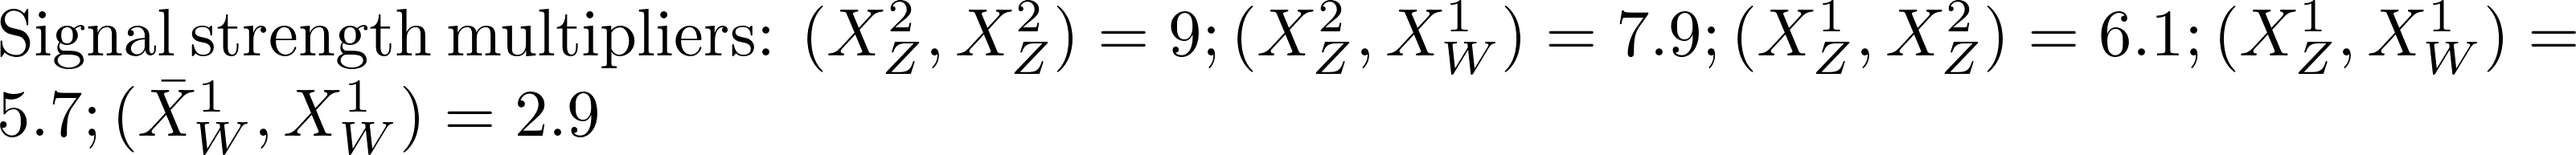
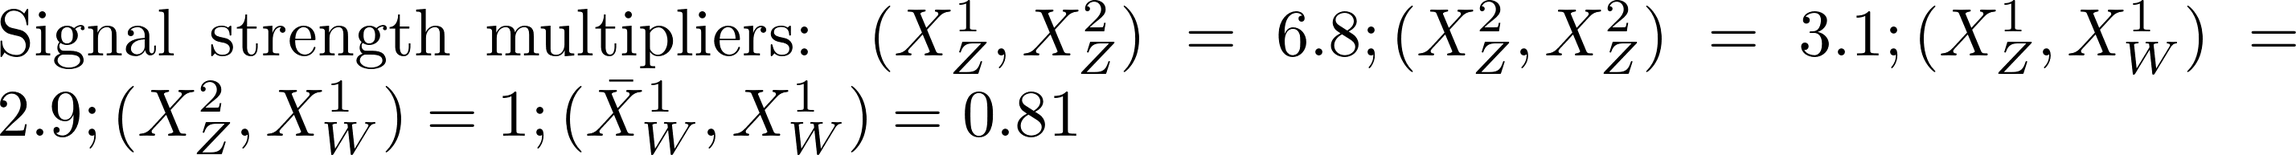
automated update by plotHiscore.py to ewk7_310:     K=9.143 TL=12.39 walkerid=0

diff --git a/protomodels/ewk7_310/rawnumbers.html b/protomodels/ewk7_310/rawnumbers.html
@@ -1,13 +1,18 @@
 <table>
 <tr><th>Analysis Name</th><th>Type</th><th>Dataset</th><th>Topos</th><th>Observed</th><th>Expected</th><th>Approx &sigma;</th><th>Particles</th>
 </tr>
-<tr><td><a href=https://atlas.web.cern.ch/Atlas/GROUPS/PHYSICS/PAPERS/EXOT-2018-06/>ATLAS-EXOT-2018-06</a></td><td>em</td> <td>EM10</td><td>TChiISR, TChiWISRll, TChiWWISRqq, TChiZISRll, TChiZISRqq</td><td>413</td><td>359.00 +/- 10.00</td><td style="text-align:right">2.5 &sigma;</td><td style="text-align:right">X<sup>1</sup><sub>W</sub>, X<sup>1</sup><sub>Z</sub>, X<sup>2</sup><sub>Z</sub></td></tr>
-<tr><td><a href=http://cms-results.web.cern.ch/cms-results/public-results/publications/EXO-20-004/>CMS-EXO-20-004</a></td><td>comb</td> <td>-</td><td>TChiISR, TChiWISRll, TChiWWISRqq, TChiZISRll, TChiZISRqq</td><td> 5e+01 fb </td><td> 4e+01 fb</td><td style="text-align:right">2.0 &sigma;</td><td style="text-align:right">X<sup>1</sup><sub>W</sub>, X<sup>1</sup><sub>Z</sub>, X<sup>2</sup><sub>Z</sub></td></tr>
-<tr><td><a href=https://atlas.web.cern.ch/Atlas/GROUPS/PHYSICS/PAPERS/SUSY-2016-07/>ATLAS-SUSY-2016-07</a></td><td>em</td> <td>2j_Meff_2100</td><td>T1</td><td>190</td><td>153.00 +/- 14.00</td><td style="text-align:right">1.9 &sigma;</td><td style="text-align:right">X<sup>1</sup><sub>W</sub>, X<sup>1</sup><sub>Z</sub>, X<sup>2</sup><sub>Z</sub></td></tr>
-<tr><td><a href=https://twiki.cern.ch/twiki/bin/view/CMSPublic/PhysicsResultsSUS13012>CMS-SUS-13-012</a></td><td>em</td> <td>3NJet6_1000HT12 ...</td><td>T1bbbb</td><td>32</td><td>22.80 +/- 5.20</td><td style="text-align:right">1.3 &sigma;</td><td style="text-align:right">X<sup>1</sup><sub>Z</sub>, X<sup>2</sup><sub>Z</sub></td></tr>
-<tr><td><a href=https://atlas.web.cern.ch/Atlas/GROUPS/PHYSICS/PAPERS/SUSY-2013-04/>ATLAS-SUSY-2013-04</a></td><td>em</td> <td>GtGrid_SR_10ij5 ...</td><td>T1bbbb</td><td>3</td><td>1.37 +/- 0.35</td><td style="text-align:right">1.2 &sigma;</td><td style="text-align:right">X<sup>1</sup><sub>Z</sub>, X<sup>2</sup><sub>Z</sub></td></tr>
-<tr><td><a href=http://cms-results.web.cern.ch/cms-results/public-results/publications/SUS-16-039/index.html>CMS-SUS-16-039-agg</a></td><td>comb</td> <td>-</td><td>TChiWZoff</td><td> 2 fb </td><td> 1 fb</td><td style="text-align:right">-1.7 &sigma;</td><td style="text-align:right">X<sup>1</sup><sub>W</sub>, X<sup>1</sup><sub>Z</sub>, X<sup>2</sup><sub>Z</sub></td></tr>
-<tr><td><a href=http://cms-results.web.cern.ch/cms-results/public-results/publications/SUS-16-048/index.html>CMS-SUS-16-048</a></td><td>comb</td> <td>-</td><td>TChiWZoff</td><td> 0.7 fb </td><td> 0.9 fb</td><td style="text-align:right">-1.9 &sigma;</td><td style="text-align:right">X<sup>1</sup><sub>W</sub>, X<sup>1</sup><sub>Z</sub>, X<sup>2</sup><sub>Z</sub></td></tr>
+<tr><td><a href=https://atlas.web.cern.ch/Atlas/GROUPS/PHYSICS/PAPERS/EXOT-2018-06/>ATLAS-EXOT-2018-06</a></td><td>em</td> <td>EM10</td><td>TChiISR</td><td>413</td><td>359.00 +/- 10.00</td><td style="text-align:right">2.4 &sigma;</td><td style="text-align:right">X<sup>1</sup><sub>Z</sub>, X<sup>2</sup><sub>Z</sub></td></tr>
+<tr><td><a href=http://cms-results.web.cern.ch/cms-results/public-results/publications/EXO-20-004/>CMS-EXO-20-004</a></td><td>comb</td> <td>-</td><td>TChiISR</td><td> 7e+01 fb </td><td> 6e+01 fb</td><td style="text-align:right">2.2 &sigma;</td><td style="text-align:right">X<sup>1</sup><sub>Z</sub>, X<sup>2</sup><sub>Z</sub></td></tr>
+<tr><td><a href=https://atlas.web.cern.ch/Atlas/GROUPS/PHYSICS/PAPERS/SUSY-2013-04/>ATLAS-SUSY-2013-04</a></td><td>em</td> <td>GtGrid_SR_9ej50 ...</td><td>T1bbbb</td><td>5</td><td>3.30 +/- 0.70</td><td style="text-align:right">0.9 &sigma;</td><td style="text-align:right">X<sup>1</sup><sub>Z</sub>, X<sup>2</sup><sub>Z</sub></td></tr>
+<tr><td><a href=https://twiki.cern.ch/twiki/bin/view/CMSPublic/PhysicsResultsSUS13012>CMS-SUS-13-012</a></td><td>em</td> <td>6NJet8_800HT100 ...</td><td>T1bbbb</td><td>35</td><td>28.60 +/- 6.90</td><td style="text-align:right">0.8 &sigma;</td><td style="text-align:right">X<sup>1</sup><sub>Z</sub>, X<sup>2</sup><sub>Z</sub></td></tr>
+<tr><td><a href=https://atlas.web.cern.ch/Atlas/GROUPS/PHYSICS/PAPERS/SUSY-2013-02/>ATLAS-SUSY-2013-02</a></td><td>em</td> <td>SR6jl</td><td>T1</td><td>121</td><td>111.00 +/- 11.00</td><td style="text-align:right">0.7 &sigma;</td><td style="text-align:right">X<sup>1</sup><sub>W</sub>, X<sup>1</sup><sub>Z</sub>, X<sup>2</sup><sub>Z</sub></td></tr>
+<tr><td><a href=https://atlas.web.cern.ch/Atlas/GROUPS/PHYSICS/PAPERS/SUSY-2016-07/>ATLAS-SUSY-2016-07</a></td><td>em</td> <td>6j_Meff_1200</td><td>T1</td><td>276</td><td>274.00 +/- 32.00</td><td style="text-align:right">0.1 &sigma;</td><td style="text-align:right">X<sup>1</sup><sub>W</sub>, X<sup>1</sup><sub>Z</sub>, X<sup>2</sup><sub>Z</sub></td></tr>
 </table>
 <table style='color:grey'>
-<tr><th>Not in Best Combo</th><th>Type</th><th>Dataset</th><th>Topos</th><th>Observed</th><th>Expected</th><th>Approx &sigma;</th><th>Particles</th></table>
+<tr><th>Not in Best Combo</th><th>Type</th><th>Dataset</th><th>Topos</th><th>Observed</th><th>Expected</th><th>Approx &sigma;</th><th>Particles</th><tr><td><a href=http://cms-results.web.cern.ch/cms-results/public-results/publications/SUS-16-033/index.html>CMS-SUS-16-033</a></td><td>em</td> <td>SR6_Njet2_Nb2_H ...</td><td>T1bbbb</td><td>216</td><td>196.00 +/- 28.00</td><td style="text-align:right">0.7 &sigma;</td><td style="text-align:right">X<sup>1</sup><sub>Z</sub>, X<sup>2</sup><sub>Z</sub></td></tr>
+<tr><td><a href=http://cms-results.web.cern.ch/cms-results/public-results/publications/SUS-16-033/index.html>CMS-SUS-16-033</a></td><td>em</td> <td>SR1_Njet2_Nb0_H ...</td><td>T1</td><td>7838</td><td>7584.00 +/- 433.00</td><td style="text-align:right">0.6 &sigma;</td><td style="text-align:right">X<sup>1</sup><sub>W</sub>, X<sup>1</sup><sub>Z</sub>, X<sup>2</sup><sub>Z</sub></td></tr>
+<tr><td><a href=http://cms-results.web.cern.ch/cms-results/public-results/publications/SUS-16-033/index.html>CMS-SUS-16-033</a></td><td>em</td> <td>SR12_Njet5_Nb1_ ...</td><td>T1bbbb</td><td>48</td><td>42.20 +/- 9.70</td><td style="text-align:right">0.5 &sigma;</td><td style="text-align:right">X<sup>1</sup><sub>Z</sub>, X<sup>2</sup><sub>Z</sub></td></tr>
+<tr><td><a href=http://cms-results.web.cern.ch/cms-results/public-results/publications/SUS-16-033/index.html>CMS-SUS-16-033</a></td><td>em</td> <td>SR7_Njet3_Nb1_H ...</td><td>T1bbbb</td><td>123</td><td>113.00 +/- 18.00</td><td style="text-align:right">0.5 &sigma;</td><td style="text-align:right">X<sup>1</sup><sub>Z</sub>, X<sup>2</sup><sub>Z</sub></td></tr>
+<tr><td><a href=http://cms-results.web.cern.ch/cms-results/public-results/publications/SUS-16-033/index.html>CMS-SUS-16-033</a></td><td>em</td> <td>SR3_Njet5_Nb0_H ...</td><td>T1</td><td>819</td><td>806.00 +/- 57.00</td><td style="text-align:right">0.2 &sigma;</td><td style="text-align:right">X<sup>1</sup><sub>W</sub>, X<sup>1</sup><sub>Z</sub>, X<sup>2</sup><sub>Z</sub></td></tr>
+<tr><td><a href=http://cms-results.web.cern.ch/cms-results/public-results/publications/SUS-16-033/index.html>CMS-SUS-16-033</a></td><td>em</td> <td>SR11_Njet7_Nb1_ ...</td><td>T1, T1bbbb</td><td>890</td><td>969.00 +/- 80.00</td><td style="text-align:right">-0.9 &sigma;</td><td style="text-align:right">X<sup>1</sup><sub>W</sub>, X<sup>1</sup><sub>Z</sub>, X<sup>2</sup><sub>Z</sub></td></tr>
+</table>

diff --git a/protomodels/ewk7_310/index.html b/protomodels/ewk7_310/index.html
@@ -1,24 +1,24 @@
 <html>
 <body>
 <center>
-<table><td><h1>Current best protomodel: <i>K</i>=3.90, <i>TL</i>=7.15</h1><td><img height=60px src=https://smodels.github.io//protomodels/logos/protomodel_lego.png></table>
+<table><td><h1>Current best protomodel: <i>K</i>=9.14, <i>TL</i>=12.39</h1><td><img height=60px src=https://smodels.github.io//protomodels/logos/protomodel_lego.png></table>
 </center>
-<b><a href=./hiscore.slha>ProtoModel</a> <a href=./pmodel.dict>(dict)</a> produced with <a href=https://smodels.github.io//docs/Validation310>database v3.1.0</a>, combination strategy <a href=./matrix.png>aggressive</a> in walker 0 step 12.</b> <br>
+<b><a href=./hiscore.slha>ProtoModel</a> <a href=./pmodel.dict>(dict)</a> produced with <a href=https://smodels.github.io//docs/Validation310>database v3.1.0</a>, combination strategy <a href=./matrix.png>aggressive</a> in walker 0 step 160.</b> <br>
 <table width=80%>
 <tr><td>
 <br><b>Critics:</b> passed both critics<br>
-<br><b>LLHD Critic:</b> CMS-SUS-16-048:combined, ATLAS-EXOT-2018-06:EM9, CMS-EXO-20-004:combined, ATLAS-SUSY-2016-07:2j_Meff_2100:: <span style='color: darkgreen;'>robs=0.95</span><br>
+<br><b>LLHD Critic:</b> CMS-EXO-20-004:combined, ATLAS-EXOT-2018-06:EM9:: <span style='color: darkgreen;'>robs=0.94</span><br>
 <br><b>7 predictions available. Highest r values are:</b><br><ul>
-<li><a href=https://atlas.web.cern.ch/Atlas/GROUPS/PHYSICS/PAPERS/EXOT-2018-06/>ATLAS-EXOT-2018-06</a>:EM9:TChiZISRll,TChiWWISRqq,TChiISR,TChiWISRll,TChiZISRqq r=1.02, r<sub>exp</sub>=0.90<br>
-<li><a href=http://cms-results.web.cern.ch/cms-results/public-results/publications/SUS-16-048/index.html>CMS-SUS-16-048</a>:stop_highMET_PT_5to12:TChiWZoff r=0.45, r<sub>exp</sub>=0.39<br>
-<li><a href=http://cms-results.web.cern.ch/cms-results/public-results/publications/EXO-20-004/>CMS-EXO-20-004</a>:SR_2018_22:TChiZISRll,TChiWWISRqq,TChiISR,TChiWISRll,TChiZISRqq r=0.14, r<sub>exp</sub>=0.22<br>
-<li><a href=https://atlas.web.cern.ch/Atlas/GROUPS/PHYSICS/PAPERS/SUSY-2016-07/>ATLAS-SUSY-2016-07</a>:2j_Meff_2100:T1 r=0.12, r<sub>exp</sub>=0.25<br>
+<li><a href=https://atlas.web.cern.ch/Atlas/GROUPS/PHYSICS/PAPERS/EXOT-2018-06/>ATLAS-EXOT-2018-06</a>:EM9:TChiISR r=1.37, r<sub>exp</sub>=1.21<br>
+<li><a href=http://cms-results.web.cern.ch/cms-results/public-results/publications/EXO-20-004/>CMS-EXO-20-004</a>:SR_2018_13:TChiISR r=0.28, r<sub>exp</sub>=0.38<br>
+<li><a href=https://atlas.web.cern.ch/Atlas/GROUPS/PHYSICS/PAPERS/SUSY-2016-07/>ATLAS-SUSY-2016-07</a>:6j_Meff_1200:T1 r=0.09, r<sub>exp</sub>=0.09<br>
+<li><a href=http://cms-results.web.cern.ch/cms-results/public-results/publications/SUS-16-033/index.html>CMS-SUS-16-033</a>:SR11_Njet7_Nb1_HT300_MHT300:T1bbbb,T1 r=0.04, r<sub>exp</sub>=0.03<br>
 </ul>
-<td><img width=600px src=./texdoc.png?1755617525>
-<br><span style='font-size: smaller; color: darkred;'>Last updated: Tue Aug 19 17:32:05 2025</span>
+<td><img width=600px src=./texdoc.png?1755627655>
+<br><span style='font-size: smaller; color: darkred;'>Last updated: Tue Aug 19 20:20:55 2025</span>
 </table><table style="width:80%">
-<td width=45%><img height=580px src=./ruler.png?1755617525><td width=55%><img height=220px src=./decays.png?1755617525>
-<font size=-3><iframe type="text/html" height="350px" width="100%" frameborder="0" src="./rawnumbers.html?1755617525"></iframe></font>
+<td width=45%><img height=580px src=./ruler.png?1755627655><td width=55%><img height=220px src=./decays.png?1755627655>
+<font size=-3><iframe type="text/html" height="350px" width="100%" frameborder="0" src="./rawnumbers.html?1755627655"></iframe></font>
 </table>
 </body>
 </html>
